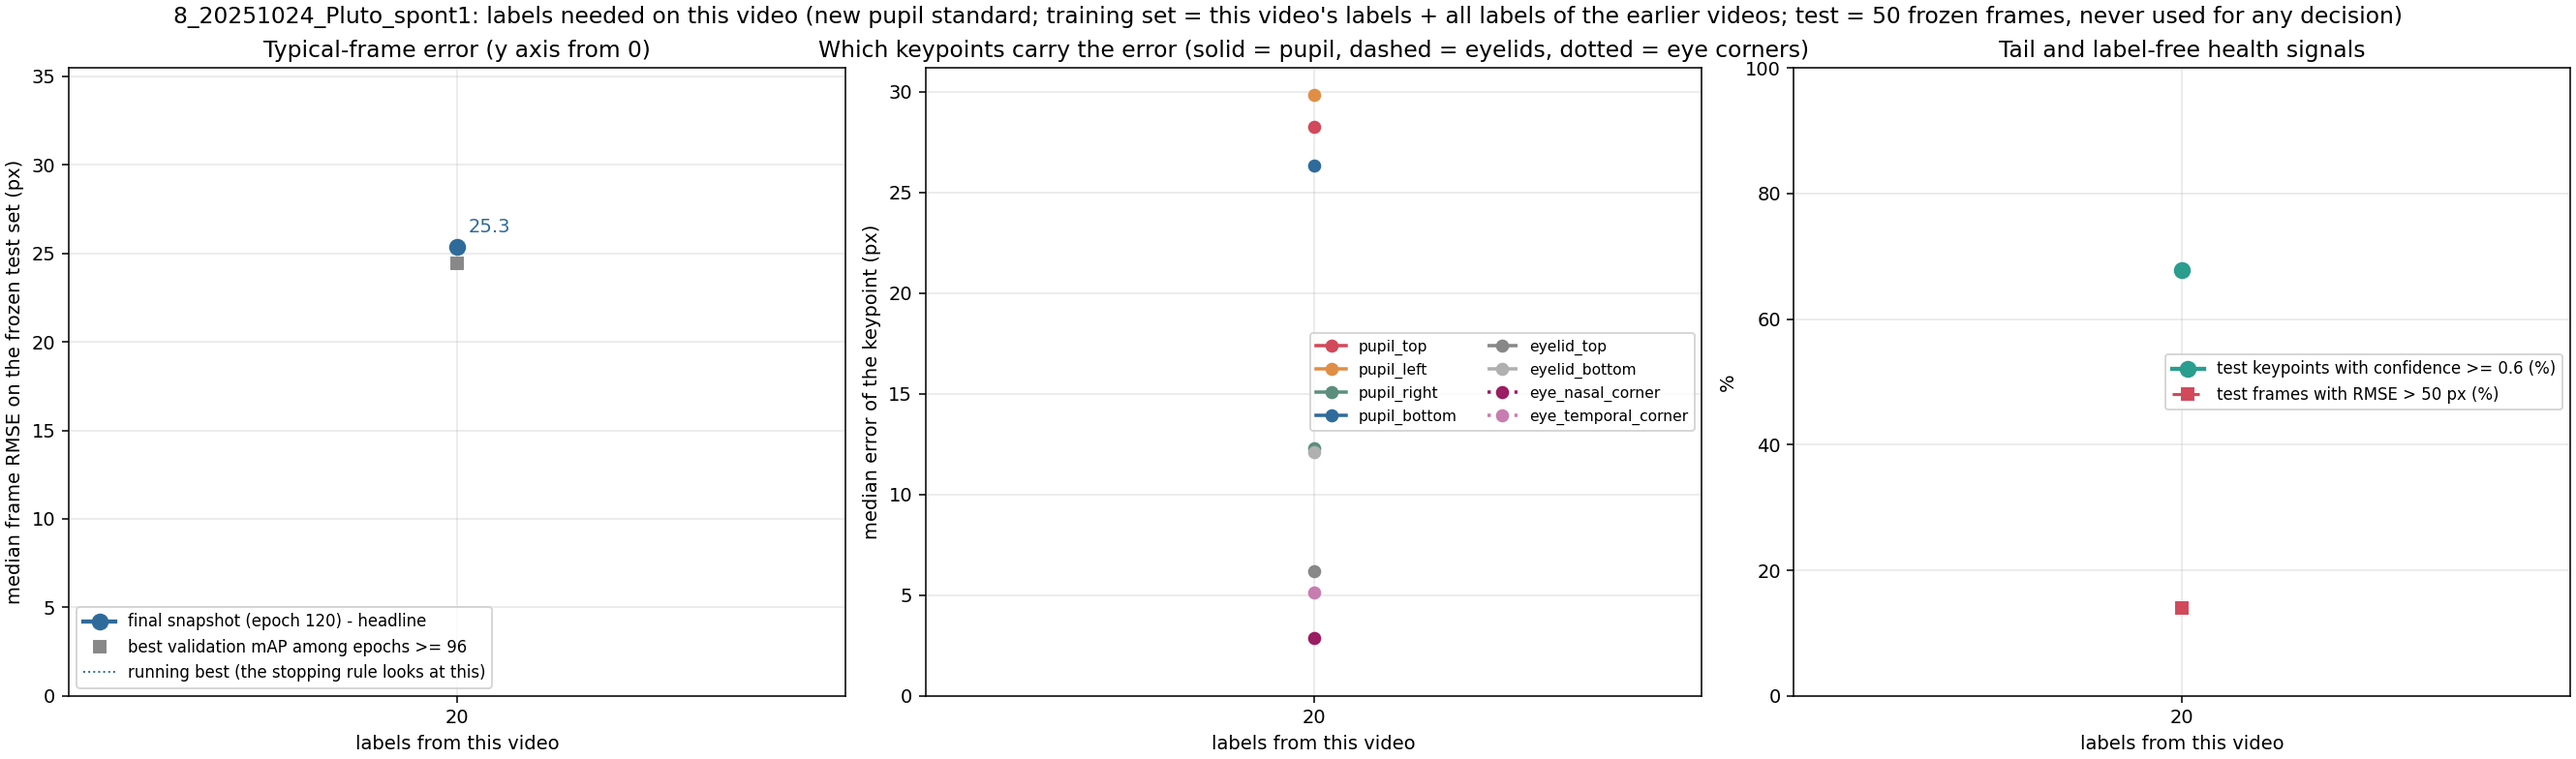
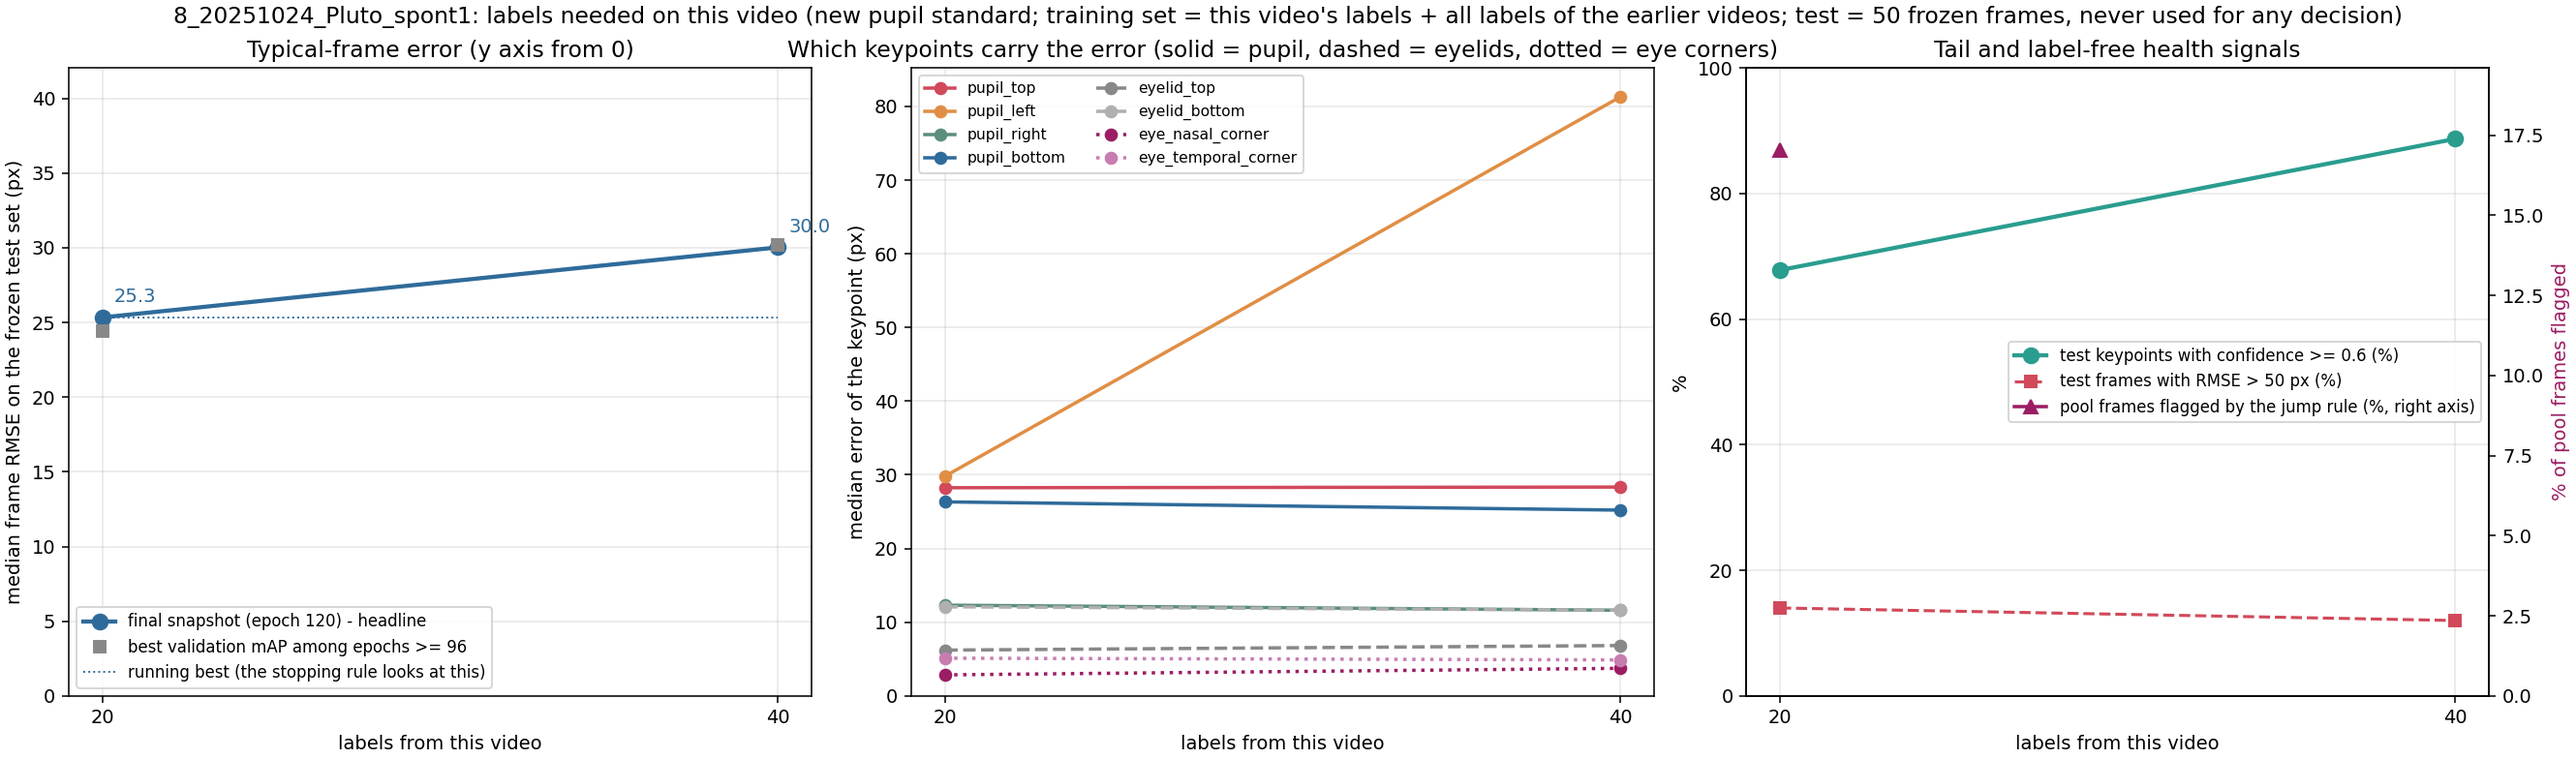
Video 8 v2 step 2: 40 labels = 30.03 px median; running best stays 25.34 px (20 labels)

diff --git a/README.md b/README.md
@@ -8,7 +8,7 @@ how many human labels are needed, and how few frames must a person correct, befo
 Zhiheng Li (University of Minnesota), with Kaiwen Sheng (Stanford). Raw videos, frames, labels, model weights and
 per-frame predictions stay local; git carries code, documentation and audited aggregate results.
 
-## Status (last updated 2026-09-30 01:35 CDT)
+## Status (last updated 2026-09-30 09:25 CDT)
 
 | what | state |
 |---|---|
@@ -20,7 +20,7 @@ per-frame predictions stay local; git carries code, documentation and audited ag
 | Finished | **fewer-labels study** (videos 0-5, step 1 retrained with 5 or 10 of its 20 labels, training set otherwise as at that time): 5 labels were enough only on videos 3 and 5; on videos 0, 1, 2 and 4, 5 or 10 labels fall short of 20 (video 4: 10 labels worse than none). 20 labels is the smallest batch that worked on every video; table in `v2_new_pupil_top_video_scaling/results/README.md` |
 | Finished | **video 6** (Pluto, 2025-10-28, v2 line continued): test set relabeled under v2 and frozen; 0 labels (video-5 model 631) = 9.36 px, 20 labels = 6.75 px (p90 11.2), 40 labels = 8.46 px, 60 labels = 10.68 px (p90 14.9): finished at **20 labels, 6.75 px** (rule fired at 60; user decision 2026-09-29). |
 | Finished | **video 7** (Pluto, 2025-10-27, v2 line): test set relabeled under v2 and frozen; 0 labels (video-6 model 711) = 5.36 px, 20 labels = 5.86 px, 40 labels = 5.84 px: finished at **0 labels, 5.36 px** - the video-6 model already fits this day (user decision 2026-09-29). |
-| In progress | **video 8** (Pluto, 2025-10-24, v2 line): test set relabeled under v2 and frozen; 0 labels (video-6 model 711) = 27.46 px, 20 labels = 25.34 px (p90 50.6, 14% of frames > 50 px - a hard day, 3 days after video 7); batch02 being selected Cross-video curves now also show the 5 / 10-label subset models (open markers) |
+| In progress | **video 8** (Pluto, 2025-10-24, v2 line): test set relabeled under v2 and frozen; 0 labels (video-6 model 711) = 27.46 px, 20 labels = 25.34 px, 40 labels = 30.03 px (p90 ~50, 12-14% of frames > 50 px - a hard day, 3 days after video 7); no improvement at step 2, plateau rule decides after step 3; batch03 being selected (popup held) Cross-video curves now also show the 5 / 10-label subset models (open markers) |
 | v3 (paused) | `v3_pupil_vedio_scaling/`: videos linked; labelling guide v0.2 records the 2026-09-29 decision (Kaiwen Sheng): the light band around the black core is pupil (fur / eyelash occlusion, IR-LED lightening), so the labeler's outer-edge labels are the reference and the guide's core-based procedure is withdrawn; v3 resumes after the procedure is re-derived from the human labels |
 | Blink / area analysis | per-video time series in `<video>/results/blink_area_analysis/`; across videos (`v2_new_pupil_top_video_scaling/results/blink_area_consistency.png`): 4-point area better on 7 of 8 test sets; lowest pupil confidence < ~0.2 separates all 16 human closed-eye frames (the production 0.6 cut flags ~half of open frames); area correlates with eye opening in every video |
 | Test-set only | videos 5-8 (2025-10-29 / 28 / 27 / 24): frozen test sets scored by every model so far; videos 9 (10-23) and 10 (10-22): test sets being labeled |
@@ -39,7 +39,7 @@ Labels needed per video (plateau = two consecutive 20-label steps that improve t
 | 5 | Pluto, 2025-10-29 | 360 | 11.90 / 15.85 / 16.58 px (v2) | 20 labels, 15.9 px (0 labels: 12% of frames > 50 px) |
 | 6 | Pluto, 2025-10-28 | 380 | 9.36 / 6.75 / 8.46 / 10.68 px (v2) | 20 labels, 6.75 px (rule fired at 60) |
 | 7 | Pluto, 2025-10-27 | 400 | 5.36 / 5.86 / 5.84 px (v2) | 0 labels, 5.36 px (rule fired at 40) |
-| 8 | Pluto, 2025-10-24 | 400 | 27.46 / 25.34 px (v2, in progress) | – |
+| 8 | Pluto, 2025-10-24 | 400 | 27.46 / 25.34 / 30.03 px (v2, in progress) | – |
 
 What the numbers say:
 

diff --git a/v2_new_pupil_top_video_scaling/results/README.md b/v2_new_pupil_top_video_scaling/results/README.md
@@ -20,7 +20,7 @@ snapshot with the best validation mAP after the first learning-rate drop (epochs
 | 5 `5_20251029_Pluto_spont_1` | mouse B, 19.9 min, 2025-10-29 | 360 (videos 0-3 + 40 of video 4 run 2) | convention v2: 11.90 / 15.85 / 16.58 / – / – / – | **20 labels** (user decision: the median rule fires at 0, but the 0-label model is > 50 px off on 12% of test frames; 20 labels remove all of them) | 15.85 px |
 | 6 `6_20251028_Pluto_spont_1` | mouse B, 19.9 min, 2025-10-28 | 380 (videos 0-3 + 40 of video 4 + 20 of video 5) | convention v2: 9.36 / 6.75 / 8.46 / 10.68 | **20 labels** (rule fired at 60; user decision 2026-09-29) | 6.75 px |
 | 7 `7_20251027_Pluto_spont1` | mouse B, 19.9 min, 2025-10-27 | 400 (videos 0-3 + 40 of video 4 + 20 of video 5 + 20 of video 6) | convention v2: 5.36 / 5.86 / 5.84 | **0 labels** (rule fired at 40; user decision 2026-09-29) | 5.36 px |
-| 8 `8_20251024_Pluto_spont1` | mouse B, 19.9 min, 2025-10-24 | 400 (videos 0-3 + 40 of video 4 + 20 of video 5 + 20 of video 6) | convention v2: 27.46 / 25.34 | in progress | – |
+| 8 `8_20251024_Pluto_spont1` | mouse B, 19.9 min, 2025-10-24 | 400 (videos 0-3 + 40 of video 4 + 20 of video 5 + 20 of video 6) | convention v2: 27.46 / 25.34 / 30.03 | in progress (step 2 did not improve on 25.34; rule decides after step 3) | – |
 
 Notes
 - With 50 test frames the median moves by about 1 px between neighbouring steps from sampling alone, so the

diff --git a/v2_new_pupil_top_video_scaling/8_20251024_Pluto_spont1/results/README.md b/v2_new_pupil_top_video_scaling/8_20251024_Pluto_spont1/results/README.md
@@ -10,3 +10,4 @@ model (711) and corrected. Training set of every step = videos 0-3 + video 4 run
 |---|---|---|---|---|---|
 | 0 (video-6 20-label model 711, applied unchanged) | 27.46 px | 51.3 | 14% | 59% | – |
 | 20 (shuffle 911) | 25.34 px | 50.6 | 14% | 68% | 9741 of 57158 (17.0%) |
+| 40 (shuffle 912) | 30.03 px | 50.4 | 12% | 89% | pending |
